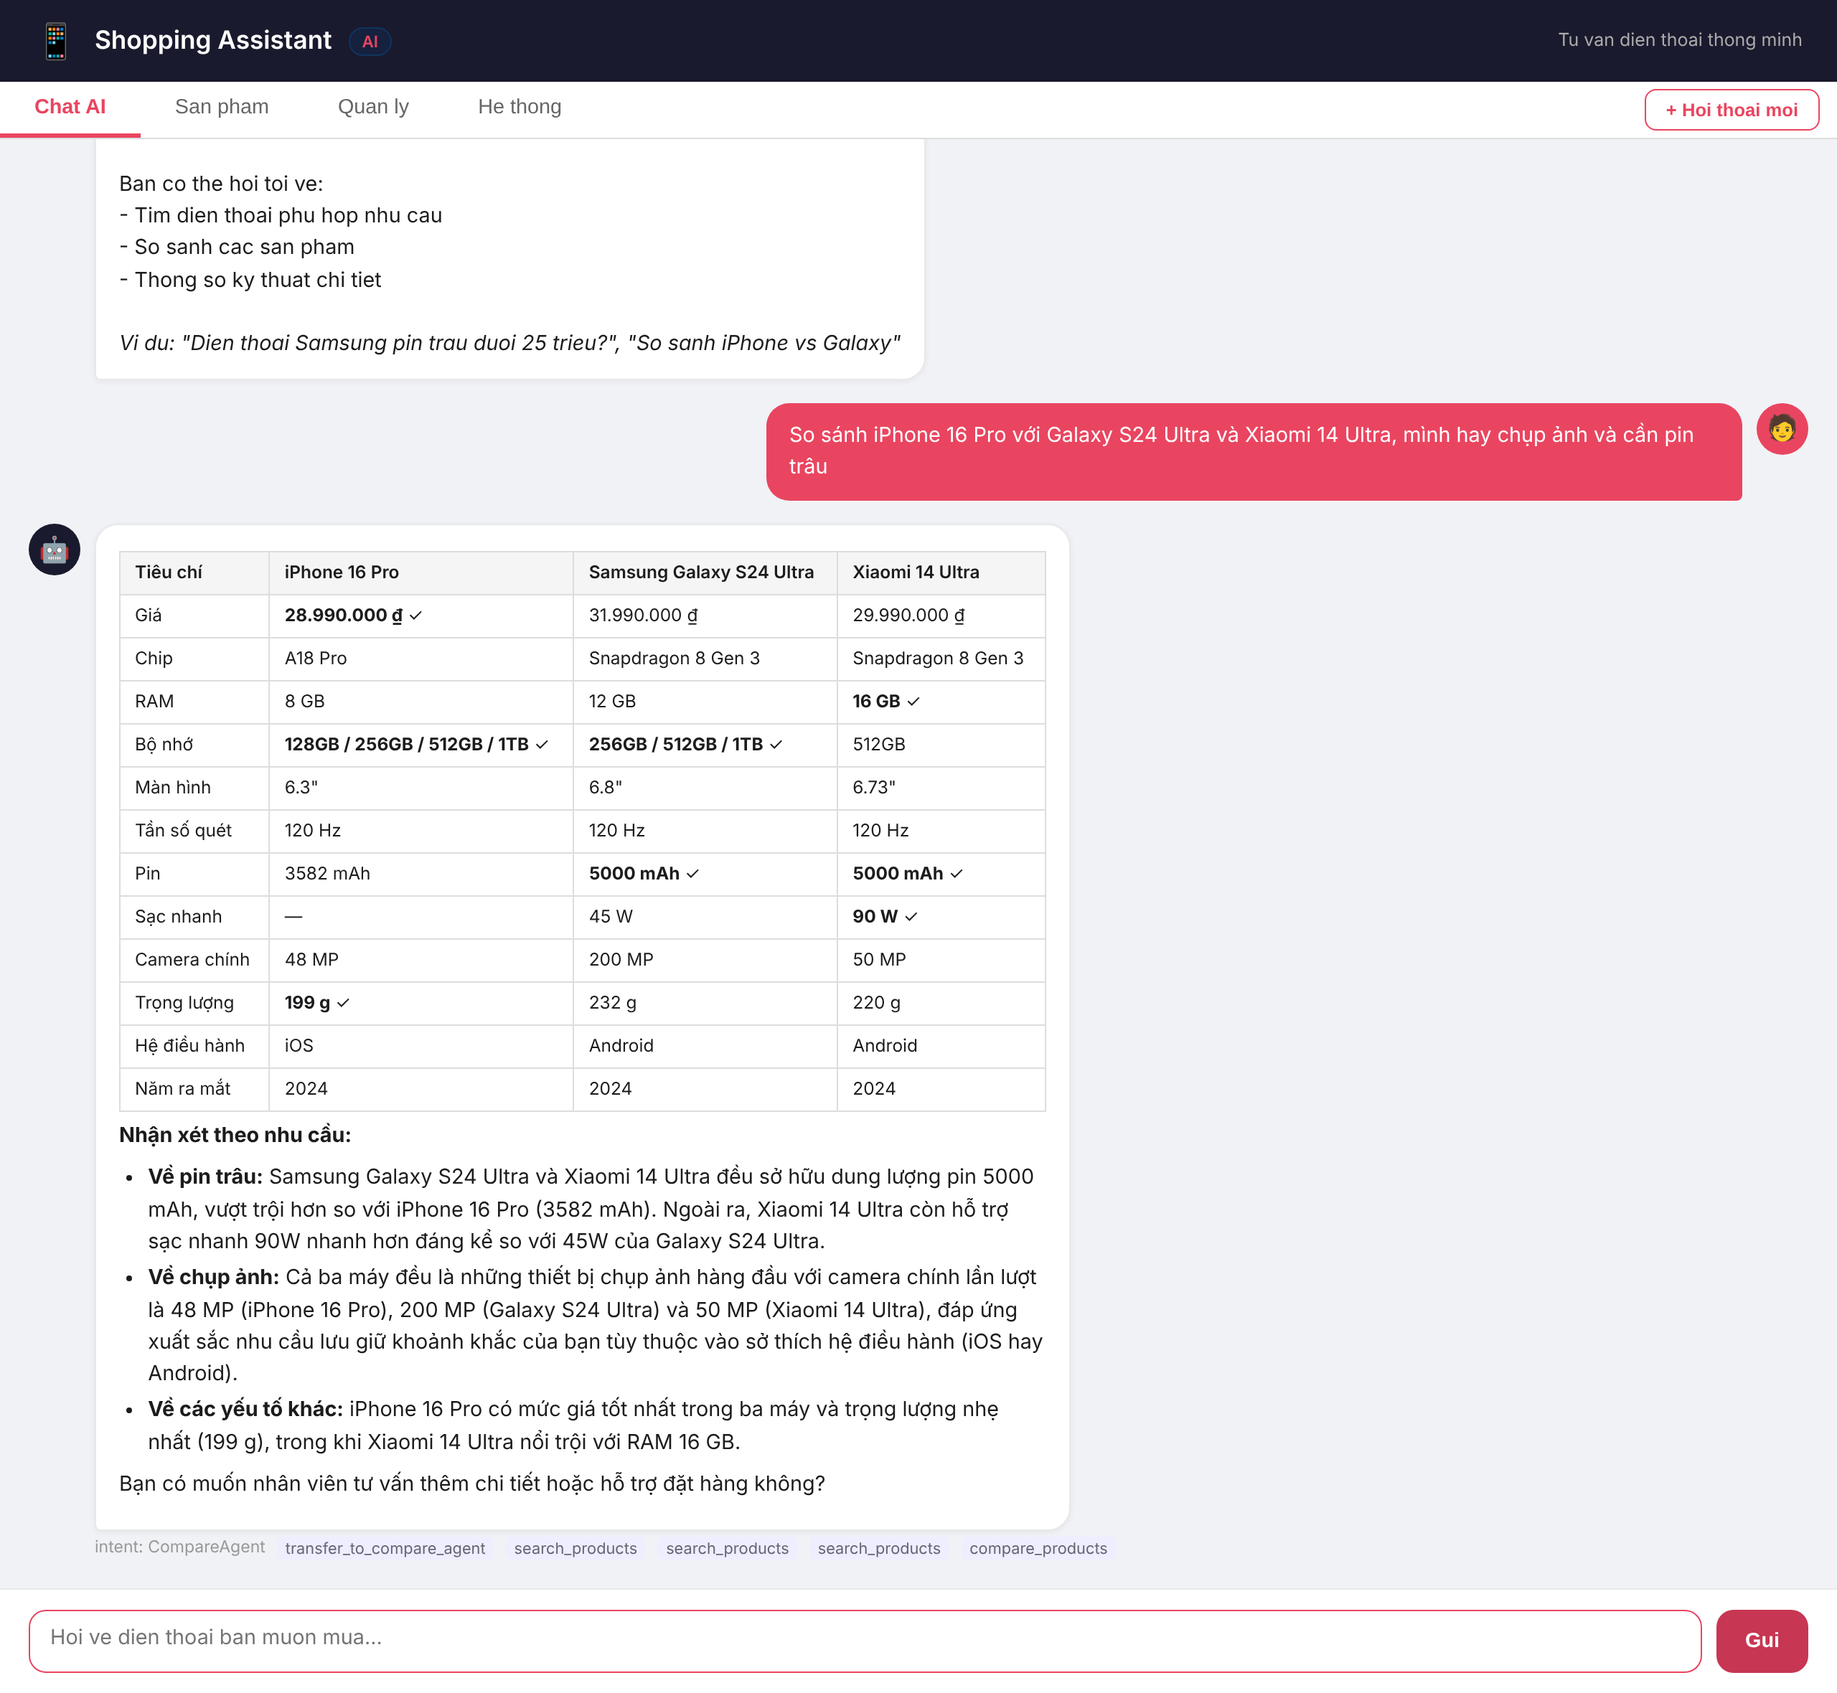
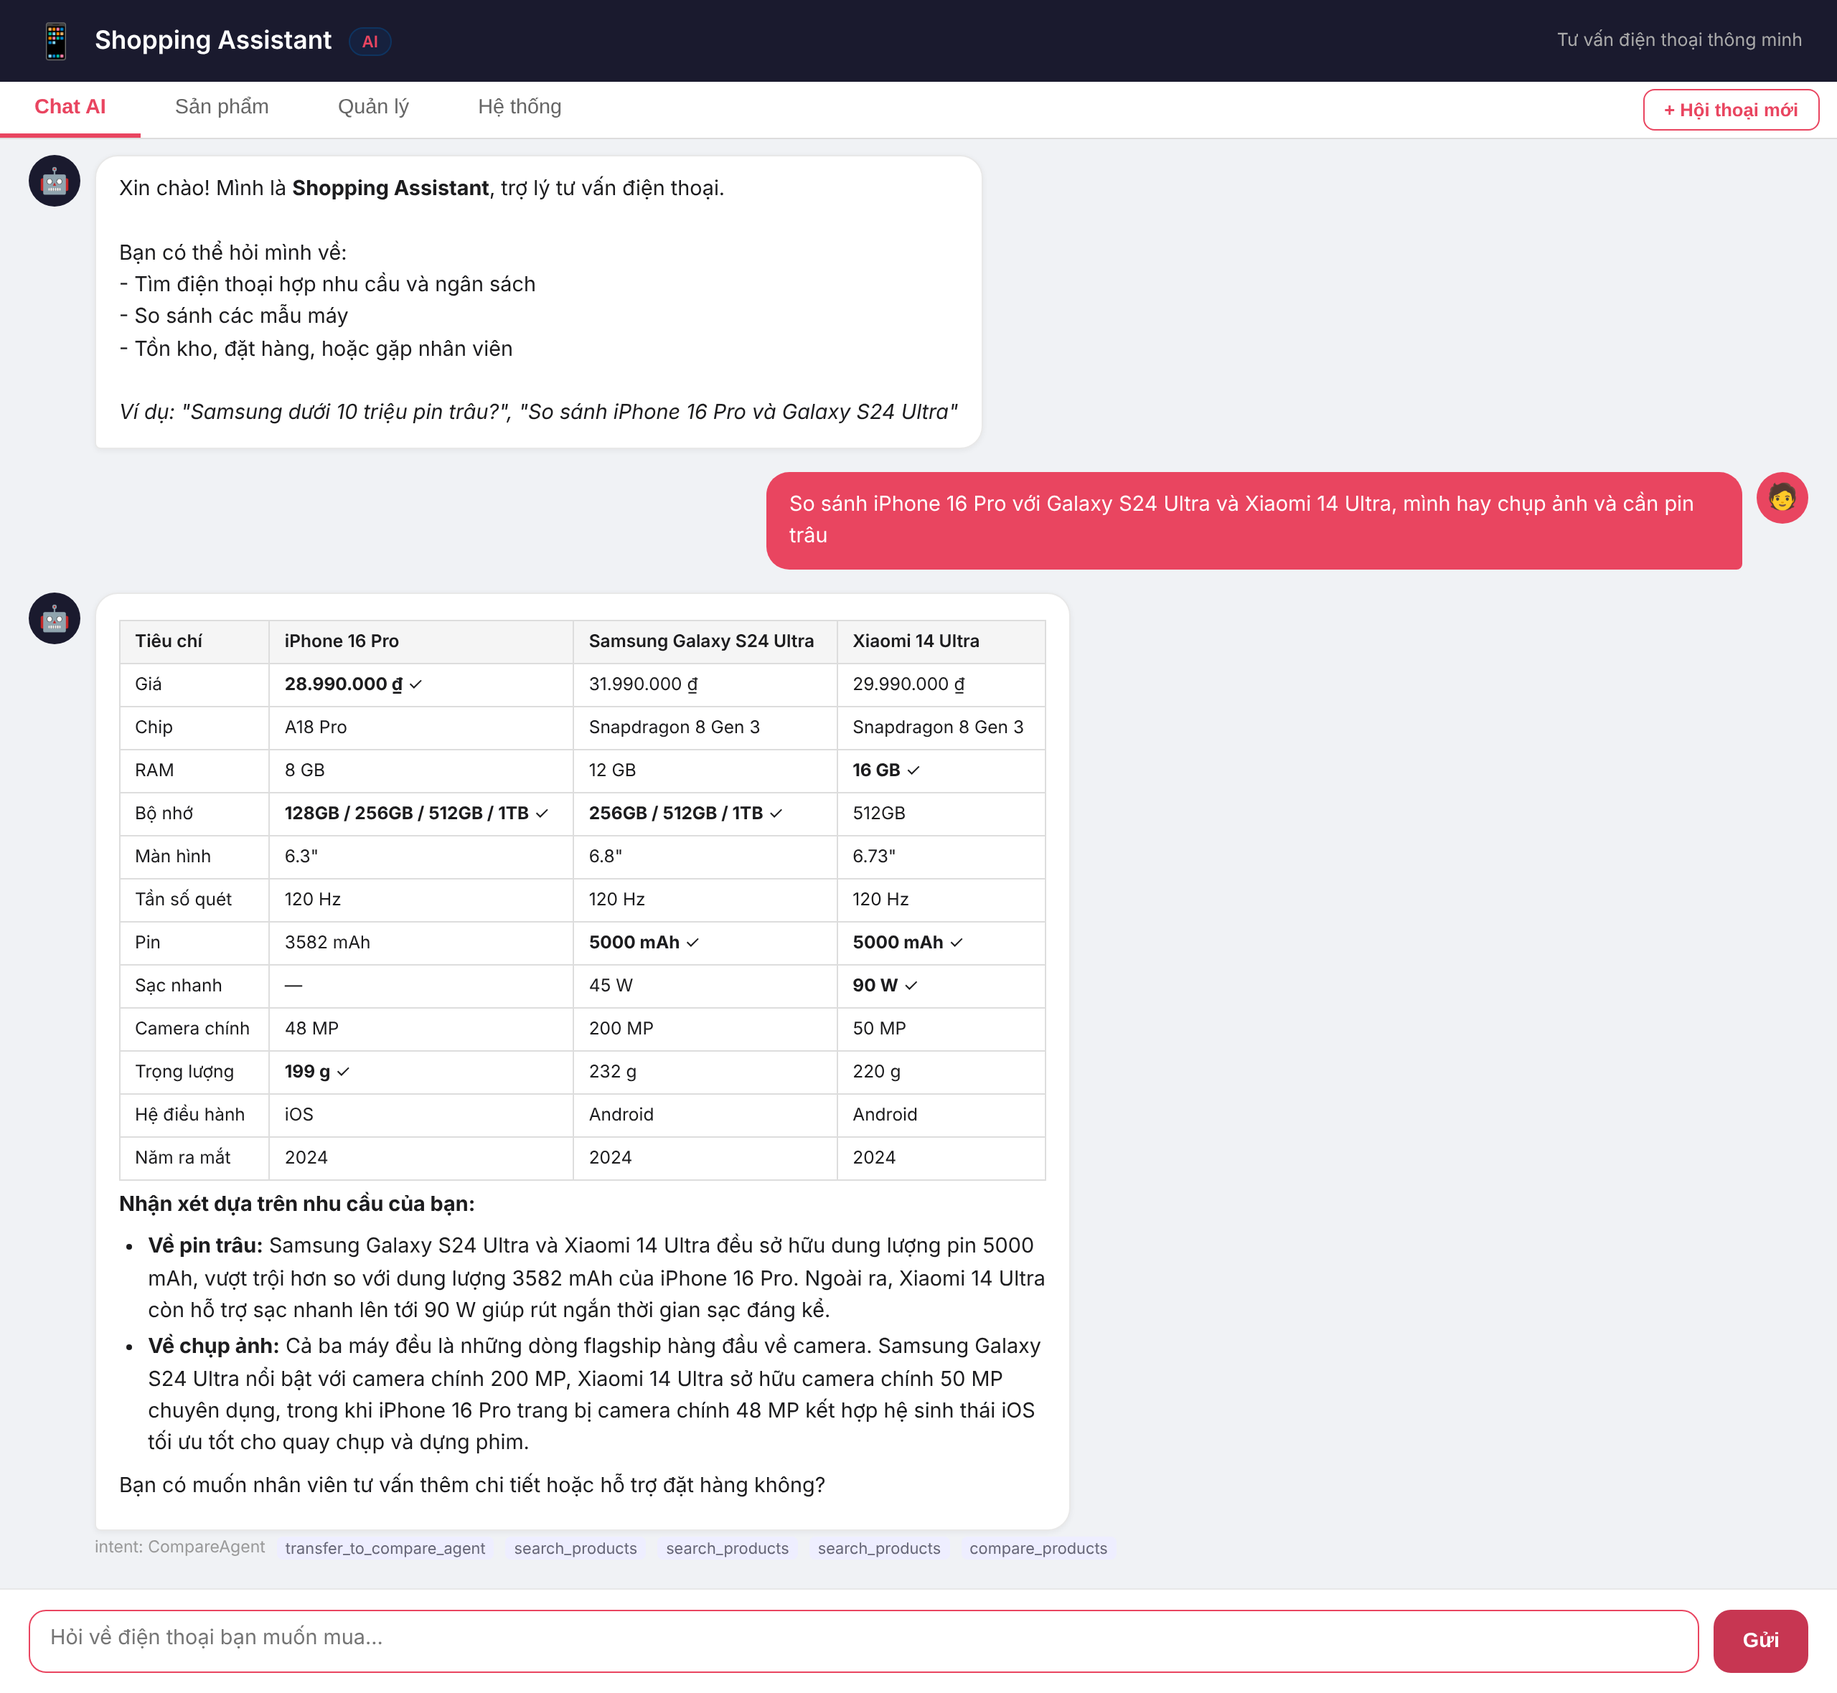
Use accented Vietnamese in the UI and retake screenshots
- tabs, headings, buttons, table headers, status labels and the welcome
  message now use proper Vietnamese; spec labels from /api/products too
- screenshots retaken on fresh data after the action-claim fix: the
  warranty question now creates a support request

diff --git a/templates/index.html b/templates/index.html
@@ -3,7 +3,7 @@
   <head>
     <meta charset="UTF-8" />
     <meta name="viewport" content="width=device-width, initial-scale=1.0" />
-    <title>Shopping Assistant - Tu van dien thoai AI</title>
+    <title>Shopping Assistant - Tư vấn điện thoại AI</title>
     <script src="https://cdn.jsdelivr.net/npm/marked@15.0.12/marked.min.js"></script>
     <style>
       *,
@@ -573,7 +573,7 @@
       <span class="logo">📱</span>
       <h1>Shopping Assistant</h1>
       <span class="badge">AI</span>
-      <span class="sub">Tu van dien thoai thong minh</span>
+      <span class="sub">Tư vấn điện thoại thông minh</span>
     </header>
 
     <!-- TABS -->
@@ -581,15 +581,15 @@
       <button class="tab-btn active" onclick="switchTab('chat')">
         Chat AI
       </button>
-      <button class="tab-btn" onclick="switchTab('products')">San pham</button>
-      <button class="tab-btn" onclick="switchTab('admin')">Quan ly</button>
-      <button class="tab-btn" onclick="switchTab('health')">He thong</button>
+      <button class="tab-btn" onclick="switchTab('products')">Sản phẩm</button>
+      <button class="tab-btn" onclick="switchTab('admin')">Quản lý</button>
+      <button class="tab-btn" onclick="switchTab('health')">Hệ thống</button>
       <button
         class="new-chat-btn"
         onclick="newChat()"
-        title="Bat dau hoi thoai moi"
+        title="Bắt đầu hội thoại mới"
       >
-        + Hoi thoai moi
+        + Hội thoại mới
       </button>
     </div>
 
@@ -600,15 +600,15 @@
           <div class="avatar">🤖</div>
           <div>
             <div class="bubble">
-              Xin chao! Toi la <strong>Shopping Assistant</strong>, tu van vien
-              dien thoai AI cua ban.<br /><br />
-              Ban co the hoi toi ve:<br />
-              - Tim dien thoai phu hop nhu cau<br />
-              - So sanh cac san pham<br />
-              - Thong so ky thuat chi tiet<br /><br />
+              Xin chào! Mình là <strong>Shopping Assistant</strong>, trợ lý
+              tư vấn điện thoại.<br /><br />
+              Bạn có thể hỏi mình về:<br />
+              - Tìm điện thoại hợp nhu cầu và ngân sách<br />
+              - So sánh các mẫu máy<br />
+              - Tồn kho, đặt hàng, hoặc gặp nhân viên<br /><br />
               <em
-                >Vi du: "Dien thoai Samsung pin trau duoi 25 trieu?", "So sanh
-                iPhone vs Galaxy"</em
+                >Ví dụ: "Samsung dưới 10 triệu pin trâu?", "So sánh iPhone 16 Pro
+                và Galaxy S24 Ultra"</em
               >
             </div>
           </div>
@@ -618,13 +618,13 @@
       <div class="input-bar">
         <textarea
           id="userInput"
-          placeholder="Hoi ve dien thoai ban muon mua..."
+          placeholder="Hỏi về điện thoại bạn muốn mua..."
           rows="1"
           onkeydown="handleKey(event)"
           oninput="autoResize(this)"
         ></textarea>
         <button class="send-btn" id="sendBtn" onclick="sendMessage()">
-          Gui
+          Gửi
         </button>
       </div>
     </div>
@@ -632,11 +632,11 @@
     <!-- PRODUCTS PANEL -->
     <div id="panel-products" class="tab-panel">
       <div class="products-header">
-        <h2>Danh sach san pham</h2>
-        <button class="refresh-btn" onclick="loadProducts()">Tai lai</button>
+        <h2>Danh sách sản phẩm</h2>
+        <button class="refresh-btn" onclick="loadProducts()">Tải lại</button>
       </div>
       <div class="products-grid" id="productsGrid">
-        <p style="color: #999; font-size: 0.9rem">Dang tai...</p>
+        <p style="color: #999; font-size: 0.9rem">Đang tải...</p>
       </div>
     </div>
 
@@ -650,31 +650,31 @@
         "
       >
         <h2 style="font-size: 1.1rem; font-weight: 600">
-          Quan ly kho hang, don hang & Ho tro
+          Quản lý kho hàng, đơn hàng & hỗ trợ
         </h2>
-        <button class="refresh-btn" onclick="loadAdmin()">Tai lai</button>
+        <button class="refresh-btn" onclick="loadAdmin()">Tải lại</button>
       </div>
 
       <div class="admin-section">
-        <h2>Ton kho <span id="stockCount" class="count-badge">0</span></h2>
+        <h2>Tồn kho <span id="stockCount" class="count-badge">0</span></h2>
         <div id="stockTable">
-          <p style="color: #999; font-size: 0.85rem">Dang tai...</p>
+          <p style="color: #999; font-size: 0.85rem">Đang tải...</p>
         </div>
       </div>
 
       <div class="admin-section">
-        <h2>Don hang <span id="ordersCount" class="count-badge">0</span></h2>
+        <h2>Đơn hàng <span id="ordersCount" class="count-badge">0</span></h2>
         <div id="ordersTable">
-          <p style="color: #999; font-size: 0.85rem">Chua co don hang.</p>
+          <p style="color: #999; font-size: 0.85rem">Chưa có đơn hàng.</p>
         </div>
       </div>
 
       <div class="admin-section">
         <h2>
-          Yeu cau ho tro <span id="supportCount" class="count-badge">0</span>
+          Yêu cầu hỗ trợ <span id="supportCount" class="count-badge">0</span>
         </h2>
         <div id="supportTable">
-          <p style="color: #999; font-size: 0.85rem">Chua co yeu cau.</p>
+          <p style="color: #999; font-size: 0.85rem">Chưa có yêu cầu.</p>
         </div>
       </div>
     </div>
@@ -682,13 +682,13 @@
     <!-- HEALTH PANEL -->
     <div id="panel-health" class="tab-panel">
       <div class="health-card">
-        <h2>Trang thai he thong</h2>
+        <h2>Trạng thái hệ thống</h2>
         <div id="healthRows">
-          <div class="health-row"><span>Dang kiem tra...</span></div>
+          <div class="health-row"><span>Đang kiểm tra...</span></div>
         </div>
       </div>
       <button class="health-refresh" onclick="loadHealth()">
-        Kiem tra lai
+        Kiểm tra lại
       </button>
     </div>
 
@@ -819,7 +819,7 @@
           if (data.error) {
             appendMsg(
               "bot",
-              `<span style="color:#c62828">Loi: ${escapeHtml(data.error)}</span>`,
+              `<span style="color:#c62828">Lỗi: ${escapeHtml(data.error)}</span>`,
             );
           } else {
             // Cap nhat session_id tu server (phong truong hop server tao moi)
@@ -838,7 +838,7 @@
           removeTyping();
           appendMsg(
             "bot",
-            `<span style="color:#c62828">Khong the ket noi den server.</span>`,
+            `<span style="color:#c62828">Không thể kết nối đến server.</span>`,
           );
         } finally {
           btn.disabled = false;
@@ -857,7 +857,7 @@
       async function loadProducts() {
         const grid = document.getElementById("productsGrid");
         grid.innerHTML =
-          '<p style="color:#999;font-size:.9rem">Dang tai...</p>';
+          '<p style="color:#999;font-size:.9rem">Đang tải...</p>';
 
         try {
           const res = await fetch("/api/products");
@@ -878,13 +878,13 @@
             card.className = "product-card";
 
             let stockCls = "stock-ok";
-            let stockText = `Con ${p.stock} chiec`;
+            let stockText = `Còn ${p.stock} chiếc`;
             if (p.stock === 0) {
               stockCls = "stock-out";
-              stockText = "Het hang";
+              stockText = "Hết hàng";
             } else if (p.stock <= 5) {
               stockCls = "stock-low";
-              stockText = `Chi con ${p.stock}`;
+              stockText = `Chỉ còn ${p.stock}`;
             }
 
             card.innerHTML = `
@@ -893,19 +893,19 @@
         <h3>${p.name}</h3>
         <div class="price">${Number(p.price).toLocaleString("vi-VN")} VND</div>
         <ul class="specs">${specsHtml}</ul>
-        <button class="ask-btn" onclick="askAbout('${p.name}')">Hoi ve san pham nay</button>
+        <button class="ask-btn" onclick="askAbout('${p.name}')">Hỏi về sản phẩm này</button>
       `;
             grid.appendChild(card);
           });
         } catch {
-          grid.innerHTML = '<p style="color:red">Khong the tai du lieu.</p>';
+          grid.innerHTML = '<p style="color:red">Không thể tải dữ liệu.</p>';
         }
       }
 
       function askAbout(name) {
         switchTab("chat");
         document.getElementById("userInput").value =
-          `Cho toi biet chi tiet ve ${name}`;
+          `Cho mình biết chi tiết về ${name}`;
         document.getElementById("userInput").focus();
       }
 
@@ -920,11 +920,11 @@
 
           if (!sData.stock || sData.stock.length === 0) {
             sEl.innerHTML =
-              '<p style="color:#999;font-size:.85rem">Chua co san pham.</p>';
+              '<p style="color:#999;font-size:.85rem">Chưa có sản phẩm.</p>';
           } else {
             let html = '<table class="admin-table"><thead><tr>';
             html +=
-              "<th>ID</th><th>San pham</th><th>Thuong hieu</th><th>Gia</th><th>Ton kho</th><th>Thao tac</th>";
+              "<th>ID</th><th>Sản phẩm</th><th>Hãng</th><th>Giá</th><th>Tồn kho</th><th>Thao tác</th>";
             html += "</tr></thead><tbody>";
             sData.stock.forEach((s) => {
               const cls =
@@ -943,7 +943,7 @@
                   <input type="number" id="stock-input-${s.product_id}" value="${s.stock}"
                     min="0" style="width:60px;padding:2px 4px;border:1px solid #ddd;border-radius:4px;text-align:center">
                   <button class="refresh-btn" style="font-size:.75rem;padding:3px 8px;margin-left:4px"
-                    onclick="updateStock(${s.product_id})">Cap nhat</button>
+                    onclick="updateStock(${s.product_id})">Cập nhật</button>
                 </td>
               </tr>`;
             });
@@ -952,7 +952,7 @@
           }
         } catch {
           document.getElementById("stockTable").innerHTML =
-            '<p style="color:red">Loi tai ton kho.</p>';
+            '<p style="color:red">Lỗi tải tồn kho.</p>';
         }
 
         // Load orders
@@ -964,11 +964,11 @@
 
           if (!data.orders || data.orders.length === 0) {
             el.innerHTML =
-              '<p style="color:#999;font-size:.85rem">Chua co don hang nao.</p>';
+              '<p style="color:#999;font-size:.85rem">Chưa có đơn hàng nào.</p>';
           } else {
             let html = '<table class="admin-table"><thead><tr>';
             html +=
-              "<th>ID</th><th>San pham</th><th>SL</th><th>Khach hang</th><th>SDT</th><th>Trang thai</th><th>Ghi chu</th><th>Thoi gian</th>";
+              "<th>ID</th><th>Sản phẩm</th><th>SL</th><th>Khách hàng</th><th>SĐT</th><th>Trạng thái</th><th>Ghi chú</th><th>Thời gian</th>";
             html += "</tr></thead><tbody>";
             data.orders.forEach((o) => {
               const stCls =
@@ -976,7 +976,7 @@
                   ? "status-confirmed"
                   : "status-pending";
               const stLabel =
-                o.status === "confirmed" ? "Da xac nhan" : "Cho restock";
+                o.status === "confirmed" ? "Đã xác nhận" : "Chờ nhập hàng";
               html += `<tr>
                 <td>${o.id}</td>
                 <td>${o.product_name}</td>
@@ -993,7 +993,7 @@
           }
         } catch {
           document.getElementById("ordersTable").innerHTML =
-            '<p style="color:red">Loi tai don hang.</p>';
+            '<p style="color:red">Lỗi tải đơn hàng.</p>';
         }
 
         // Load support requests
@@ -1005,16 +1005,16 @@
 
           if (!data.requests || data.requests.length === 0) {
             el.innerHTML =
-              '<p style="color:#999;font-size:.85rem">Chua co yeu cau ho tro nao.</p>';
+              '<p style="color:#999;font-size:.85rem">Chưa có yêu cầu hỗ trợ nào.</p>';
           } else {
             let html = '<table class="admin-table"><thead><tr>';
             html +=
-              "<th>ID</th><th>Ly do</th><th>Khach hang</th><th>SDT</th><th>Trang thai</th><th>Thoi gian</th>";
+              "<th>ID</th><th>Lý do</th><th>Khách hàng</th><th>SĐT</th><th>Trạng thái</th><th>Thời gian</th>";
             html += "</tr></thead><tbody>";
             data.requests.forEach((r) => {
               const stCls =
                 r.status === "resolved" ? "status-confirmed" : "status-pending";
-              const stLabel = r.status === "resolved" ? "Da xu ly" : "Dang cho";
+              const stLabel = r.status === "resolved" ? "Đã xử lý" : "Đang chờ";
               html += `<tr>
                 <td>${r.id}</td>
                 <td style="max-width:300px">${r.reason}</td>
@@ -1029,7 +1029,7 @@
           }
         } catch {
           document.getElementById("supportTable").innerHTML =
-            '<p style="color:red">Loi tai yeu cau ho tro.</p>';
+            '<p style="color:red">Lỗi tải yêu cầu hỗ trợ.</p>';
         }
       }
 
@@ -1037,7 +1037,7 @@
         const input = document.getElementById(`stock-input-${productId}`);
         const newStock = parseInt(input.value, 10);
         if (isNaN(newStock) || newStock < 0) {
-          alert("So luong phai la so nguyen >= 0");
+          alert("Số lượng phải là số nguyên >= 0");
           return;
         }
         try {
@@ -1048,14 +1048,14 @@
           });
           const data = await res.json();
           if (data.error) {
-            alert("Loi: " + data.error);
+            alert("Lỗi: " + data.error);
           } else {
             alert(data.message);
             loadAdmin();
             loadProducts();
           }
         } catch {
-          alert("Khong the cap nhat ton kho.");
+          alert("Không thể cập nhật tồn kho.");
         }
       }
 
@@ -1063,7 +1063,7 @@
       async function loadHealth() {
         const rows = document.getElementById("healthRows");
         rows.innerHTML =
-          '<div class="health-row"><span>Dang kiem tra...</span></div>';
+          '<div class="health-row"><span>Đang kiểm tra...</span></div>';
 
         try {
           const res = await fetch("/api/health");
@@ -1085,7 +1085,7 @@
             .join("");
         } catch {
           rows.innerHTML =
-            '<div class="health-row"><span style="color:red">Khong the ket noi server.</span></div>';
+            '<div class="health-row"><span style="color:red">Không thể kết nối server.</span></div>';
         }
       }
     </script>

diff --git a/app/routes.py b/app/routes.py
@@ -141,12 +141,12 @@ def api_support_requests():
 def _display_specs(p) -> dict[str, str]:
     """Thong so dang chu cho the san pham tren giao dien."""
     storage = " / ".join(f"{x // 1024}TB" if x >= 1024 else f"{x}GB" for x in p.storage_gb)
-    battery = f"{p.battery_mah} mAh" + (f", sac {p.charging_w}W" if p.charging_w else "")
+    battery = f"{p.battery_mah} mAh" + (f", sạc {p.charging_w}W" if p.charging_w else "")
     return {
         "Chip": p.chipset,
         "RAM": f"{p.ram_gb} GB",
-        "Bo nho": storage,
-        "Man hinh": f'{p.screen_inch}" {p.refresh_rate_hz}Hz',
+        "Bộ nhớ": storage,
+        "Màn hình": f'{p.screen_inch}" {p.refresh_rate_hz}Hz',
         "Pin": battery,
         "Camera": f"{p.main_camera_mp} MP",
     }
